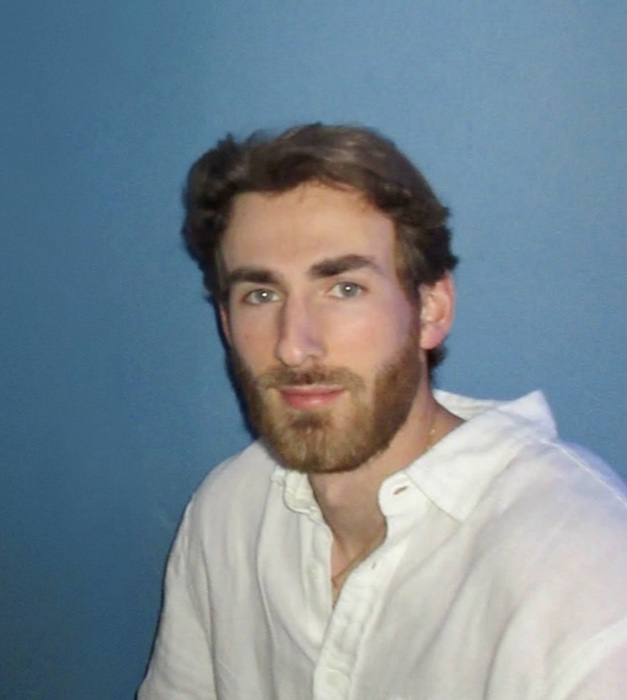
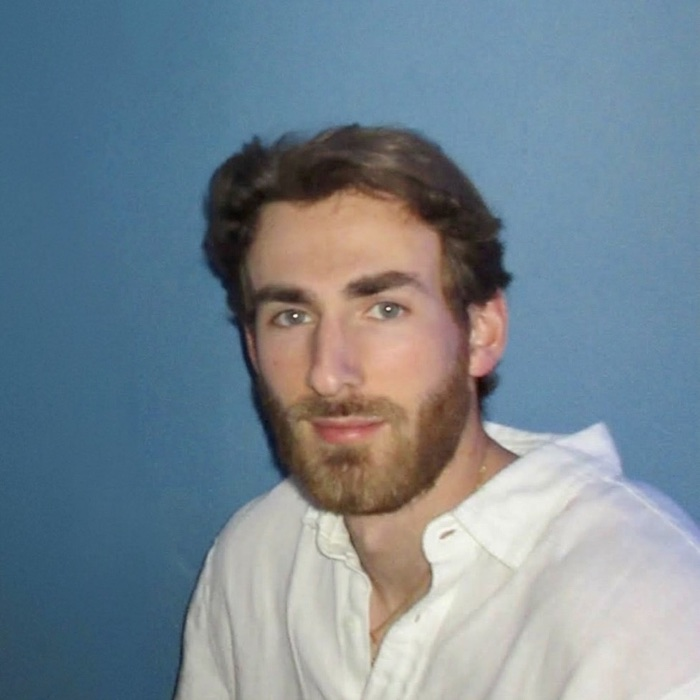
About: square team photos pinned to fill their coins (fixes Safari gap)

diff --git a/about.html b/about.html
@@ -45,7 +45,8 @@
   .front b{font-family:var(--serif);font-weight:400;font-size:clamp(34px,5vw,64px);background:var(--heart);-webkit-background-clip:text;background-clip:text;color:transparent}
   .back{transform:rotateY(180deg)}
   .photo{box-shadow:0 0 0 2px #C9D4E8,0 0 0 10px #F5F7FB,0 0 0 12px #C9D4E8,0 18px 40px rgba(14,27,58,.16);background:#DDE5F3}
-  .photo img{width:100%;height:100%;object-fit:cover;display:block}
+  .photo{position:absolute}
+  .photo img{position:absolute;inset:0;width:100%;height:100%;object-fit:cover;display:block}
   .coin:not(.has-photo) .disc{cursor:default} .coin:not(.has-photo):hover .disc,.coin:not(.has-photo) .disc.flip{transform:none}
   .coin h2{margin:26px 0 0;font-family:var(--serif);font-weight:400;font-size:clamp(26px,2.6vw,36px);line-height:1.05} .coin .role{margin-top:8px} .coin p{margin:12px auto 0;max-width:330px;font-size:15.5px;color:var(--ink-soft);text-wrap:balance}
   .coin p.long{text-wrap:pretty;max-width:345px}
@@ -66,19 +67,19 @@
 </section></div>
 <section class="coins"><div class="wrap"><div class="grid">
 
-  <article class="coin has-photo"><div class="disc" tabindex="0"><div class="face photo"><img src="assets/team-joe.jpg" alt="Joe Hodson" style="object-position:50% 28%"></div><div class="face front back"><svg viewBox="0 0 200 200" aria-hidden="true"><defs><path id="r0" d="M100,100 m-82,0 a82,82 0 1,1 164,0 a82,82 0 1,1 -164,0"></path></defs><text font-family="Jost, sans-serif" font-size="9.5" letter-spacing="4.2" fill="#3E4C6E" opacity=".7"><textPath href="#r0">JOE HODSON · ΑΓΑΜΟΣ · JOE HODSON · ΑΓΑΜΟΣ ·</textPath></text></svg><b>JH</b></div></div>
+  <article class="coin has-photo"><div class="disc" tabindex="0"><div class="face photo"><img src="assets/team-joe.jpg" alt="Joe Hodson"></div><div class="face front back"><svg viewBox="0 0 200 200" aria-hidden="true"><defs><path id="r0" d="M100,100 m-82,0 a82,82 0 1,1 164,0 a82,82 0 1,1 -164,0"></path></defs><text font-family="Jost, sans-serif" font-size="9.5" letter-spacing="4.2" fill="#3E4C6E" opacity=".7"><textPath href="#r0">JOE HODSON · ΑΓΑΜΟΣ · JOE HODSON · ΑΓΑΜΟΣ ·</textPath></text></svg><b>JH</b></div></div>
     <h2>Joe Hodson</h2>
     <div class="eyebrow role">Producer · Editor</div>
     <p class="long">Joe is a data scientist by trade, and the rest of his time goes to making things, preferably things he hasn't made before. He likes the whole process of getting from an idea to a finished project. He has been filming and editing since he was a kid, and producing Agamos is the most&nbsp;ambitious&nbsp;project&nbsp;yet.</p>
   </article>
 
-  <article class="coin has-photo"><div class="disc" tabindex="0"><div class="face photo"><img src="assets/team-nick-s.jpg" alt="Nick Staviski" style="object-position:50% 22%"></div><div class="face front back"><svg viewBox="0 0 200 200" aria-hidden="true"><defs><path id="r1" d="M100,100 m-82,0 a82,82 0 1,1 164,0 a82,82 0 1,1 -164,0"></path></defs><text font-family="Jost, sans-serif" font-size="9.5" letter-spacing="4.2" fill="#3E4C6E" opacity=".7"><textPath href="#r1">NICK STAVISKI · ΑΓΑΜΟΣ · NICK STAVISKI · ΑΓΑΜΟΣ ·</textPath></text></svg><b>NS</b></div></div>
+  <article class="coin has-photo"><div class="disc" tabindex="0"><div class="face photo"><img src="assets/team-nick-s.jpg" alt="Nick Staviski"></div><div class="face front back"><svg viewBox="0 0 200 200" aria-hidden="true"><defs><path id="r1" d="M100,100 m-82,0 a82,82 0 1,1 164,0 a82,82 0 1,1 -164,0"></path></defs><text font-family="Jost, sans-serif" font-size="9.5" letter-spacing="4.2" fill="#3E4C6E" opacity=".7"><textPath href="#r1">NICK STAVISKI · ΑΓΑΜΟΣ · NICK STAVISKI · ΑΓΑΜΟΣ ·</textPath></text></svg><b>NS</b></div></div>
     <h2>Nick Staviski</h2>
     <div class="eyebrow role">Producer · Host</div>
     <p>Nick is an engineer who happens to be the most outgoing person in any room. He can talk to anyone, usually does, and brings just enough chaos to keep a shoot interesting. As host and producer, he is the reason people relax on&nbsp;camera.</p>
   </article>
 
-  <article class="coin has-photo"><div class="disc" tabindex="0"><div class="face photo"><img src="assets/team-nick-k.jpg" alt="Nick Klesmith" style="object-position:40% 18%"></div><div class="face front back"><svg viewBox="0 0 200 200" aria-hidden="true"><defs><path id="r2" d="M100,100 m-82,0 a82,82 0 1,1 164,0 a82,82 0 1,1 -164,0"></path></defs><text font-family="Jost, sans-serif" font-size="9.5" letter-spacing="4.2" fill="#3E4C6E" opacity=".7"><textPath href="#r2">NICK KLESMITH · ΑΓΑΜΟΣ · NICK KLESMITH · ΑΓΑΜΟΣ ·</textPath></text></svg><b>NK</b></div></div>
+  <article class="coin has-photo"><div class="disc" tabindex="0"><div class="face photo"><img src="assets/team-nick-k.jpg" alt="Nick Klesmith"></div><div class="face front back"><svg viewBox="0 0 200 200" aria-hidden="true"><defs><path id="r2" d="M100,100 m-82,0 a82,82 0 1,1 164,0 a82,82 0 1,1 -164,0"></path></defs><text font-family="Jost, sans-serif" font-size="9.5" letter-spacing="4.2" fill="#3E4C6E" opacity=".7"><textPath href="#r2">NICK KLESMITH · ΑΓΑΜΟΣ · NICK KLESMITH · ΑΓΑΜΟΣ ·</textPath></text></svg><b>NK</b></div></div>
     <h2>Nick Klesmith</h2>
     <div class="eyebrow role">Videographer · Editor</div>
     <p>Nick studied videography in school and never stopped studying it. He shoots and edits for Agamos, and he is the one who knows why a shot works, not just that it does. If there is a new camera, lens, or technique out there, he has probably already tried&nbsp;it.</p>
@@ -90,13 +91,13 @@
     <p>Sofie studied psychology, and it shows: she loves to talk, loves to listen, and has a real curiosity about why people do what they do. She is high energy by nature, loves to entertain, and is happiest with a microphone in her&nbsp;hand.</p>
   </article>
 
-  <article class="coin has-photo"><div class="disc" tabindex="0"><div class="face photo"><img src="assets/team-nina.jpg" alt="Nina Staviski" style="object-position:50% 50%"></div><div class="face front back"><svg viewBox="0 0 200 200" aria-hidden="true"><defs><path id="r4" d="M100,100 m-82,0 a82,82 0 1,1 164,0 a82,82 0 1,1 -164,0"></path></defs><text font-family="Jost, sans-serif" font-size="9.5" letter-spacing="4.2" fill="#3E4C6E" opacity=".7"><textPath href="#r4">NINA STAVISKI · ΑΓΑΜΟΣ · NINA STAVISKI · ΑΓΑΜΟΣ ·</textPath></text></svg><b>NS</b></div></div>
+  <article class="coin has-photo"><div class="disc" tabindex="0"><div class="face photo"><img src="assets/team-nina.jpg" alt="Nina Staviski"></div><div class="face front back"><svg viewBox="0 0 200 200" aria-hidden="true"><defs><path id="r4" d="M100,100 m-82,0 a82,82 0 1,1 164,0 a82,82 0 1,1 -164,0"></path></defs><text font-family="Jost, sans-serif" font-size="9.5" letter-spacing="4.2" fill="#3E4C6E" opacity=".7"><textPath href="#r4">NINA STAVISKI · ΑΓΑΜΟΣ · NINA STAVISKI · ΑΓΑΜΟΣ ·</textPath></text></svg><b>NS</b></div></div>
     <h2>Nina Staviski</h2>
     <div class="eyebrow role">Creative Director</div>
     <p>Nina is a project manager, at work and on Agamos. Alongside her creative work she manages the team, the plan, and every loose end the rest of us forget about. If something happened on time, Nina is&nbsp;why.</p>
   </article>
 
-  <article class="coin has-photo"><div class="disc" tabindex="0"><div class="face photo"><img src="assets/team-aria.jpg" alt="Aria Dalkas" style="object-position:50% 50%"></div><div class="face front back"><svg viewBox="0 0 200 200" aria-hidden="true"><defs><path id="r5" d="M100,100 m-82,0 a82,82 0 1,1 164,0 a82,82 0 1,1 -164,0"></path></defs><text font-family="Jost, sans-serif" font-size="9.5" letter-spacing="4.2" fill="#3E4C6E" opacity=".7"><textPath href="#r5">ARIA DALKAS · ΑΓΑΜΟΣ · ARIA DALKAS · ΑΓΑΜΟΣ ·</textPath></text></svg><b>AD</b></div></div>
+  <article class="coin has-photo"><div class="disc" tabindex="0"><div class="face photo"><img src="assets/team-aria.jpg" alt="Aria Dalkas"></div><div class="face front back"><svg viewBox="0 0 200 200" aria-hidden="true"><defs><path id="r5" d="M100,100 m-82,0 a82,82 0 1,1 164,0 a82,82 0 1,1 -164,0"></path></defs><text font-family="Jost, sans-serif" font-size="9.5" letter-spacing="4.2" fill="#3E4C6E" opacity=".7"><textPath href="#r5">ARIA DALKAS · ΑΓΑΜΟΣ · ARIA DALKAS · ΑΓΑΜΟΣ ·</textPath></text></svg><b>AD</b></div></div>
     <h2>Aria Dalkas</h2>
     <div class="eyebrow role">Creative Director</div>
     <p>Aria is a teacher, which explains both her patience and her imagination. She brings the ideas nobody else would think of, usually the silly ones, and usually the ones that end up in the show. She makes the work more fun for everyone around&nbsp;her.</p>
